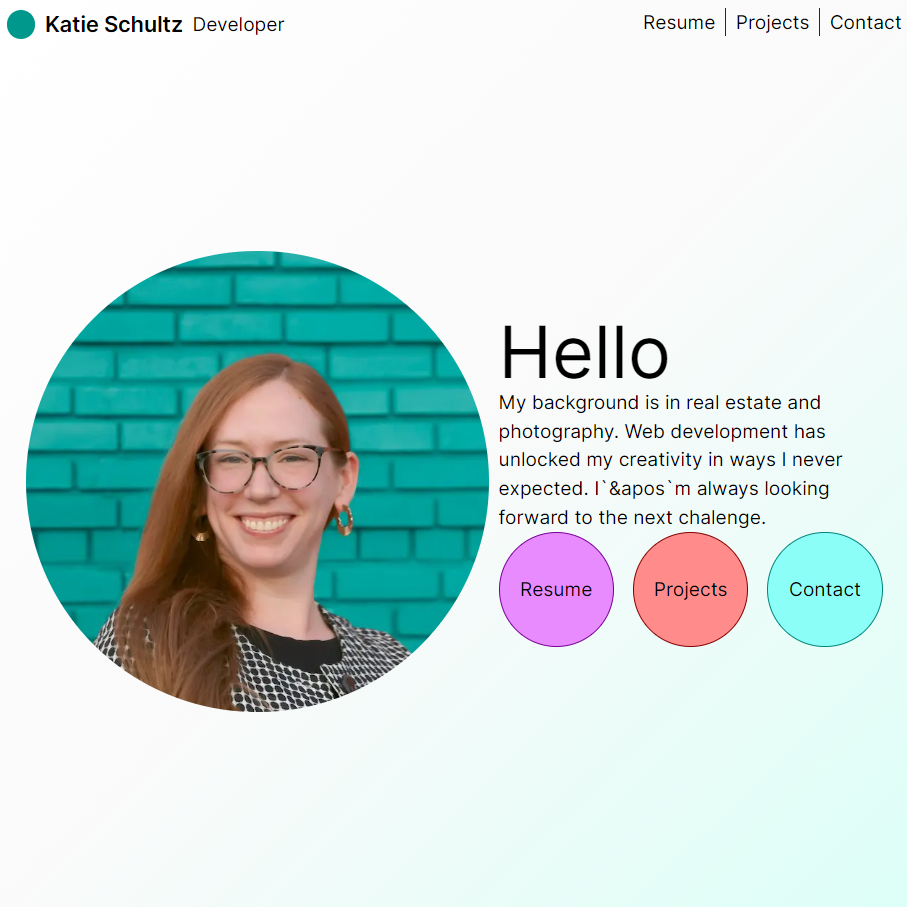
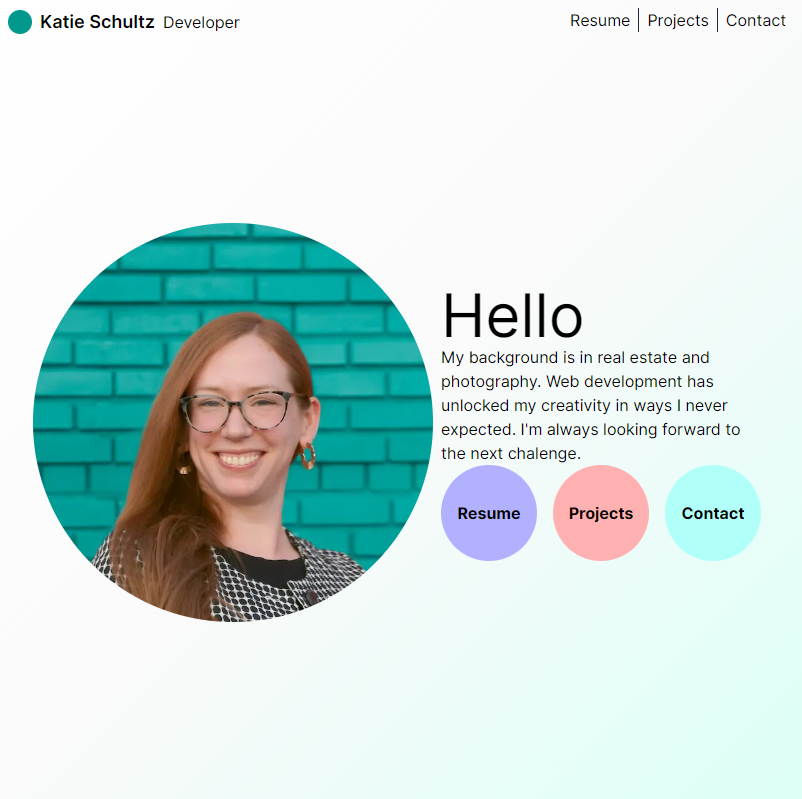
bubble borders and page animations

diff --git a/src/app/globals.css b/src/app/globals.css
@@ -32,28 +32,70 @@ body {
   );
 }
 
+.bubble:hover {
+  transition: border ease-in 200ms;
+}
+
 .bubble-0 {
   animation-name: slideFromBottom-0;
   animation-duration: 700ms;
+}
+
+.bubble-0:hover {
+  border: solid 2px #790096;
 }
 
 .bubble-1 {
   animation-name: slideFromBottom-1;
   animation-duration: 800ms;
 }
+
+.bubble-1:hover {
+  border: solid 2px #860000;
+}
+
 .bubble-2 {
   animation-name: slideFromBottom-2;
   animation-duration: 1000ms;
 }
 
-.nav-menu {
+.bubble-2:hover {
+  border: solid 2px #00847b;
+}
+
+.slide-up {
   animation-name: slideFromBottom-0;
   animation-duration: 300ms;
 }
 
-.remove-nav-menu {
-  animation-name: slideToTop;
-  animation-duration: 300ms;
+.slide-left {
+  animation-name: slideFromLeft;
+  animation-duration: 500ms;
+}
+
+.fade-in {
+  animation-name: fadeIn;
+  animation-duration: 400ms;
+}
+
+@keyframes fadeIn {
+  0% {
+    opacity: 0;
+  }
+  100% {
+    opacity: 1;
+  }
+}
+
+@keyframes slideFromLeft {
+  0% {
+    opacity: 0;
+    transform: translateX(-100px);
+  }
+  100% {
+    opacity: 1;
+    transform: translate(0);
+  }
 }
 
 @keyframes slideFromBottom-0 {

diff --git a/src/app/components/navigation/Bubble/Bubble.tsx b/src/app/components/navigation/Bubble/Bubble.tsx
@@ -10,13 +10,12 @@ interface BubbleProps {
 export default function Bubble({ menuOption, index }: BubbleProps) {
   const styles = {
     backgroundColor: menuOption.color,
-    // border: `solid 1px ${menuOption.borderColor}`,
   };
   return (
     <Link href={menuOption.path}>
       <div
-        className={`bubble bubble-${index} h-24 w-24 rounded-full flex justify-center items-center`}
         style={styles}
+        className={`bubble bubble-${index} h-24 w-24 rounded-full flex justify-center font-bold items-center`}
       >
         {menuOption.name}
       </div>

diff --git a/src/app/config/navOptions.ts b/src/app/config/navOptions.ts
@@ -9,19 +9,19 @@ export const navOptions = [
   {
     name: "Resume",
     path: "/resume",
-    color: "#e88bff",
+    color: "#b2b1ff",
     borderColor: "#790096",
   },
   {
     name: "Projects",
     path: "/projects",
-    color: "#ff8b8b",
+    color: "#ffb1b1",
     borderColor: "#860000",
   },
   {
     name: "Contact",
     path: "/contact",
-    color: "#8bfff7",
+    color: "#b1fff9",
     borderColor: "#00847b",
   },
 ];

diff --git a/src/app/resume/page.tsx b/src/app/resume/page.tsx
@@ -7,7 +7,7 @@ function Divider() {
 
 export default function ResumePage() {
   return (
-    <div className="flex items-center flex-col w-full">
+    <div className="flex items-center flex-col w-full fade-in">
       <h2 className="font-bold text-3xl mb-2">RESUME</h2>
       <div className="flex flex-col items-center md:max-w-3xl lg:max-w-5xl">
         <h3 className="font-bold text-xl mt-4">Professional Experience</h3>

diff --git a/src/app/projects/page.tsx b/src/app/projects/page.tsx
@@ -24,7 +24,7 @@ const projectImage = (name: string) => {
 
 export default function ProjectsPage() {
   return (
-    <div className="flex items-center flex-col w-full">
+    <div className="flex items-center flex-col w-full slide-left">
       <h2 className="font-bold text-3xl mb-4">PROJECTS</h2>
       <div className="flex flex-col items-center md:max-w-3xl lg:max-w-5xl">
         {projects.map((project) => (

diff --git a/src/app/components/navigation/NavMenu.tsx b/src/app/components/navigation/NavMenu.tsx
@@ -13,7 +13,7 @@ export default function NavMenu({ isOpen }: NavMenuProps) {
     >
       <ul
         className={`${
-          isOpen ? "nav-menu" : ""
+          isOpen ? "slide-up" : ""
         } flex h-48 w-48 flex-col justify-around items-center md:flex-row md:h-fit md:w-fit`}
       >
         {navOptions.map((option, index) => {

diff --git a/src/app/page.tsx b/src/app/page.tsx
@@ -6,7 +6,7 @@ export default function Home() {
   return (
     <div className="flex w-full p-4 justify-center items-center">
       <div className="flex ">
-        <div>
+        <div className="slide-left">
           <Image
             src={headshot}
             alt="Picture of Katie Schultz"
